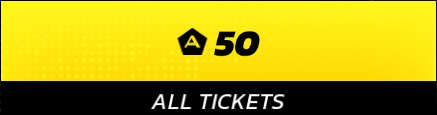
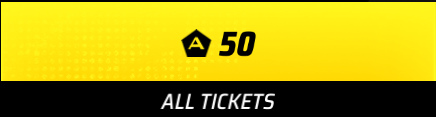
update assets and add special even hunt

Changed region(s): [[0.0, 0.0, 1.0, 0.7043], [0.328, 0.7826, 0.656, 0.9652], [0.3876, 0.2348, 0.5963, 0.4957]]

diff --git a/spotlight.py b/spotlight.py
@@ -6,25 +6,35 @@ from buttonAdvance import pressButtonAdvance, isThereButtonAdvance, pressMiddleS
 
 def main():
     print("Spotlight automation script started.")
-    time.sleep(4)
+    time.sleep(3)
     # pressButtonAdvance(r"Assets\Images\spotlightEvent.png", confidence=0.7, retries=3, delay=1.0, ignorePanic=True)
     # pressButtonAdvance(r"Assets\Images\spotlightEvent.png", confidence=0.7, retries=3, delay=1.0, ignorePanic=True)
     # pressButtonAdvance(r"Assets\Images\spotlightPlayButton.png", confidence=0.7, retries=3, delay=1.0, ignorePanic=True)
     while True:
-        pressButtonAdvance(r"Assets\Images\raceButton.png", confidence=0.7, retries=3, delay=1.0, ignorePanic=True)
-        scrollUp(5)
-        pressButtonAdvance(r"Assets\Images\saleenS1.png", confidence=0.7, retries=3, delay=1.0, ignorePanic=True)
-        pressButtonAdvance(r"Assets\Images\play1.png", confidence=0.7, retries=3, delay=1.0, ignorePanic=True)
-        for i in range(1, 120):
-            pressButtonAdvance(r"Assets\Images\star.png", confidence=0.7, retries=3, delay=1.0, ignorePanic=True)
-            if i % 8 == 0:
-                pressNitroButton()
-            time.sleep(1)
-        pressButtonAdvance(r"Assets\Images\nextButton.png", confidence=0.7, retries=3, delay=1.0, ignorePanic=True)
-        pressButtonAdvance(r"Assets\Images\nextButton.png", confidence=0.7, retries=3, delay=1.0, ignorePanic=True)
-        pressButtonAdvance(r"Assets\Images\missoutButton.png", confidence=0.7, retries=3, delay=1.0, ignorePanic=True)
+        pressButtonAdvance(r"Assets\Images\raceButton.png", confidence=0.7, retries=3, delay=1.0, ignorePanic=False)
+        time.sleep(2)
+        scrollUp(4)
+        time.sleep(2)
+        pressButtonAdvance(r"Assets\Images\Cars\saleenS1.png", confidence=0.8, retries=3, delay=1.0, ignorePanic=False)
+        time.sleep(2)
+        pressButtonAdvance(r"Assets\Images\play1.png", confidence=0.7, retries=3, delay=1.0, ignorePanic=False)
+        while not isThereButtonAdvance(r"Assets\Images\nextButton.png", confidence=0.7):
+            pressButtonAdvance(r"Assets\Images\star.png", confidence=0.8, retries=1, delay=1.0, ignorePanic=True)
+            time.sleep(0.5)
+            pressButtonAdvance(r"Assets\Images\star.png", confidence=0.7, retries=1, delay=1.0, ignorePanic=True)
+            time.sleep(0.5)
+            # pressButtonAdvance(r"Assets\Images\star.png", confidence=0.6, retries=1, delay=1.0, ignorePanic=True)
+            # time.sleep(0.5)
+            pressNitroButton()
+        pressButtonAdvance(r"Assets\Images\nextButton.png", confidence=0.7, retries=3, delay=1.0, ignorePanic=False)
+        time.sleep(2)
+        pressButtonAdvance(r"Assets\Images\nextButton.png", confidence=0.7, retries=3, delay=1.0, ignorePanic=False)
+        time.sleep(4)
+        pressButtonAdvance(r"Assets\Images\missoutButton.png", confidence=0.7, retries=3, delay=1.0, ignorePanic=False)
+        time.sleep(3)
         pressMiddleScreen()
-        pressButtonAdvance(r"Assets\Images\whiteNextButton.png", confidence=0.7, retries=3, delay=1.0, ignorePanic=True)
+        time.sleep(2)
+        pressButtonAdvance(r"Assets\Images\backButton.png", confidence=0.7, retries=3, delay=1.0, ignorePanic=False)
          
 
 

diff --git a/specialEvent.py b/specialEvent.py
@@ -1,0 +1,68 @@
+import time
+from refuel import startRefuel, startAdsForTicketRefill
+from buttonAdvance import pressButtonAdvance, isThereButtonAdvance, pressLeftButton, pressNitroButton, pressMiddleScreen, pressSpaceButton
+
+def handleRefill():
+    print("Handling refills if necessary.")
+    time.sleep(2)
+    # if isThereButtonAdvance(r"Assets\Images\skipButton.png", confidence=0.7):
+    #     startRefuel()
+
+    # if isThereButtonAdvance(r"Assets\Images\play1.png", confidence=0.7):
+    #     pressButtonAdvance(r"Assets\Images\play1.png", confidence=0.7, retries=3, delay=1.0)
+
+    if isThereButtonAdvance(r"Assets\Images\refillTicketsBanner.png", confidence=0.7):
+        startAdsForTicketRefill()
+        time.sleep(1)
+        pressButtonAdvance(r"Assets\Images\play1.png", confidence=0.7, retries=3, delay=1.0)
+
+
+def handleRace():
+    raceEnded, nitroCounter = False, 0
+    while not raceEnded:
+        # if (isThereButtonAdvance(r"Assets\Images\nitroBottle.png", confidence=0.7)):
+        # pressLeftButton()
+        if nitroCounter % 1 == 0:
+            # press space key for nitro
+            pressSpaceButton()
+            # pressNitroButton()
+        nitroCounter += 1
+        if nitroCounter % 2 == 0:
+            raceEnded = isThereButtonAdvance(r"Assets\Images\NextButton.png", confidence=0.7)
+        time.sleep(1)
+
+def handlePostRace():
+    pressButtonAdvance(r"Assets\Images\nextButton.png", confidence=0.7, retries=3, delay=1.0, ignorePanic=True)
+    time.sleep(5)
+    # pressMiddleScreen()
+    pressButtonAdvance(r"Assets\Images\nextButton.png", confidence=0.7, retries=3, delay=1.0, ignorePanic=True)
+    time.sleep(9)
+    pressButtonAdvance(r"Assets\Images\watchAdPostRaceButton.png", confidence=0.7, retries=3, delay=1.0, ignorePanic=True)
+    # pressButtonAdvance(r"Assets\Images\missoutButton.png", confidence=0.7, retries=3, delay=1.0, ignorePanic=True)
+    # pressButtonAdvance(r"Assets\Images\whiteNextButton.png", confidence=0.7, retries=3, delay=1.0, ignorePanic=True)
+
+    adEnded = False
+    while not adEnded:
+        print("Searching for nextButton after Ad")
+        adEnded = isThereButtonAdvance(r"Assets\Images\NextButton.png", confidence=0.7)
+        time.sleep(2)
+    pressButtonAdvance(r"Assets\Images\nextButton.png", confidence=0.7, retries=3, delay=1.0, ignorePanic=True)
+    time.sleep(10)
+    pressButtonAdvance(r"Assets\Images\nextButton.png", confidence=0.7, retries=3, delay=1.0, ignorePanic=True)
+
+
+def main():
+    time.sleep(3)
+    print("Starting SE Hunt automation script.")
+    for i in range(1, 101):
+        print(f"Race number: {i}")
+        pressButtonAdvance(r"Assets\Images\nextButton.png", confidence=0.6, retries=3, delay=1.0, ignorePanic=True)
+        time.sleep(3)
+        pressButtonAdvance(r"Assets\Images\play1.png", confidence=0.7, retries=3, delay=1.0, ignorePanic=False)
+        handleRefill()
+        handleRace()
+        handlePostRace()
+
+
+if __name__ == "__main__":
+    main()

diff --git a/buttonAdvance.py b/buttonAdvance.py
@@ -9,7 +9,7 @@ def pressButtonAdvance(image_path: str, confidence: float = 0.7, retries: int = 
     for attempt in range(1, retries + 1):
         time.sleep(delay)
         try:
-            button_location = pyautogui.locateOnScreen(image_path, confidence=confidence)
+            button_location = pyautogui.locateOnScreen(image_path, confidence=confidence, grayscale=True)
             if button_location:
                 pyautogui.click(pyautogui.center(button_location))
                 print(f"Button found and clicked on attempt {attempt} | {image_path}")
@@ -30,6 +30,7 @@ def isThereButtonAdvance(image_path: str, confidence: float = 0.7) -> bool:
     Checks if a button exists on the screen using the provided image.
     Returns True if found, False otherwise.
     """
+    print(f"Checking for button: {image_path}")
     try:
         button_location = pyautogui.locateOnScreen(image_path, confidence=confidence)
         if button_location:
@@ -53,6 +54,13 @@ def pressMiddleScreen():
     print(f"Clicking at the middle of the screen: ({middle_x}, {middle_y})")
     pyautogui.click(middle_x, middle_y)
 
+def pressLeftButton():
+    time.sleep(1)
+    pyautogui.press('left')
+
+def pressSpaceButton():
+    time.sleep(1)
+    pyautogui.press('space')
 
 def pressNitroButton():
     time.sleep(1)
@@ -75,6 +83,7 @@ def scrollUp(times: int = 1):
         time.sleep(1)
         pyautogui.scroll(1000)  # Positive value scrolls up
         print(f"Scrolled up {i + 1} times.")
+
 
 def scrollDown(times: int = 1):
     """

diff --git a/refuel.py b/refuel.py
@@ -1,11 +1,7 @@
 import pyautogui
 import time
 from buttonAdvance import pressButtonAdvance, isThereButtonAdvance
-
-
 time.sleep(3)
-print("running refule.py script")
-
 
 def startRefuelAds():
     while True:
@@ -31,7 +27,7 @@ def startAdsForTicketRefill():
     while True:
         time.sleep(1)
         try:
-            watchAdButton = pyautogui.locateOnScreen(r"Assets\Images\refillTicketWatchAdButton.png", confidence=0.9)
+            watchAdButton = pyautogui.locateOnScreen(r"Assets\Images\watchAdButton.png", confidence=0.9)
             if watchAdButton:
                 print("Ads found")
                 pyautogui.click(pyautogui.center(watchAdButton))
@@ -41,8 +37,9 @@ def startAdsForTicketRefill():
                 print("Ticket Refilled")
             if isThereButtonAdvance(r"Assets\Images\noMoreTicketAdsAvailable.png", confidence=0.7):
                 print("Buying ticket")
-                pressButtonAdvance(r"Assets\Images\buyTicketButton.png", confidence=0.9, retries=3, delay=1.0, ignorePanic=True)
-            pressButtonAdvance(r"Assets\Images\backButton.png", confidence=0.7, retries=3, delay=1.0, ignorePanic=True)
+                pressButtonAdvance(r"Assets\Images\buyTicketButton.png", confidence=0.7, retries=3, delay=1.0, ignorePanic=True)
+            # Ticket filled either by ads or by purchase, going back
+            pressButtonAdvance(r"Assets\Images\backButton.png", confidence=0.8, retries=3, delay=1.0, ignorePanic=False)
             break
         print("More Tickets Ads are there")
 
